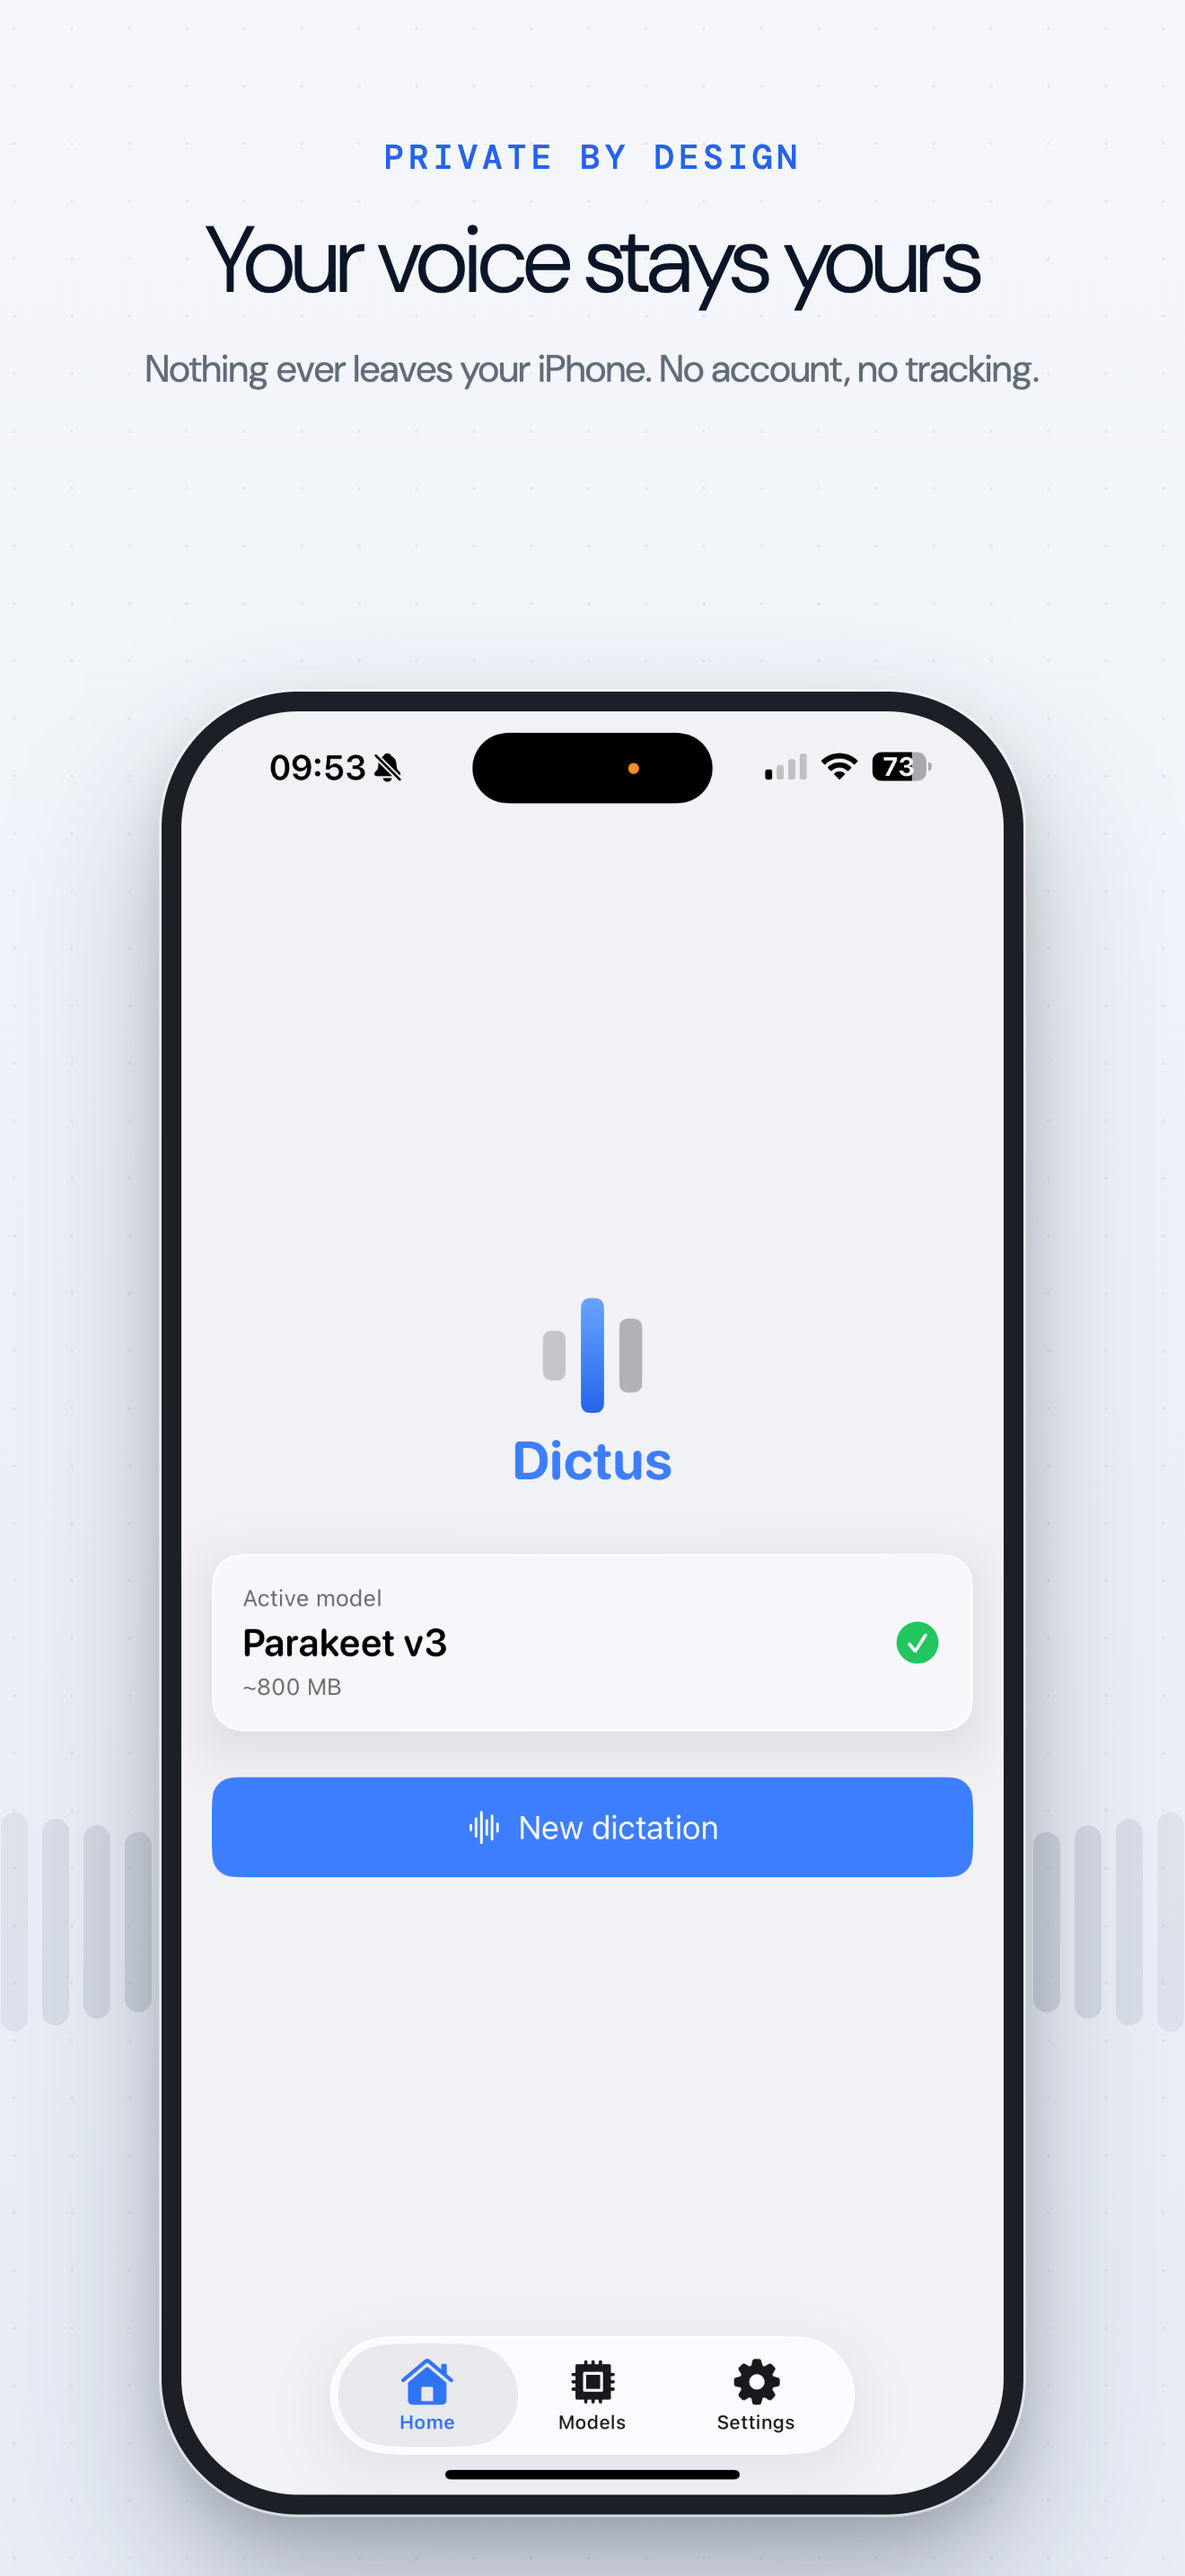
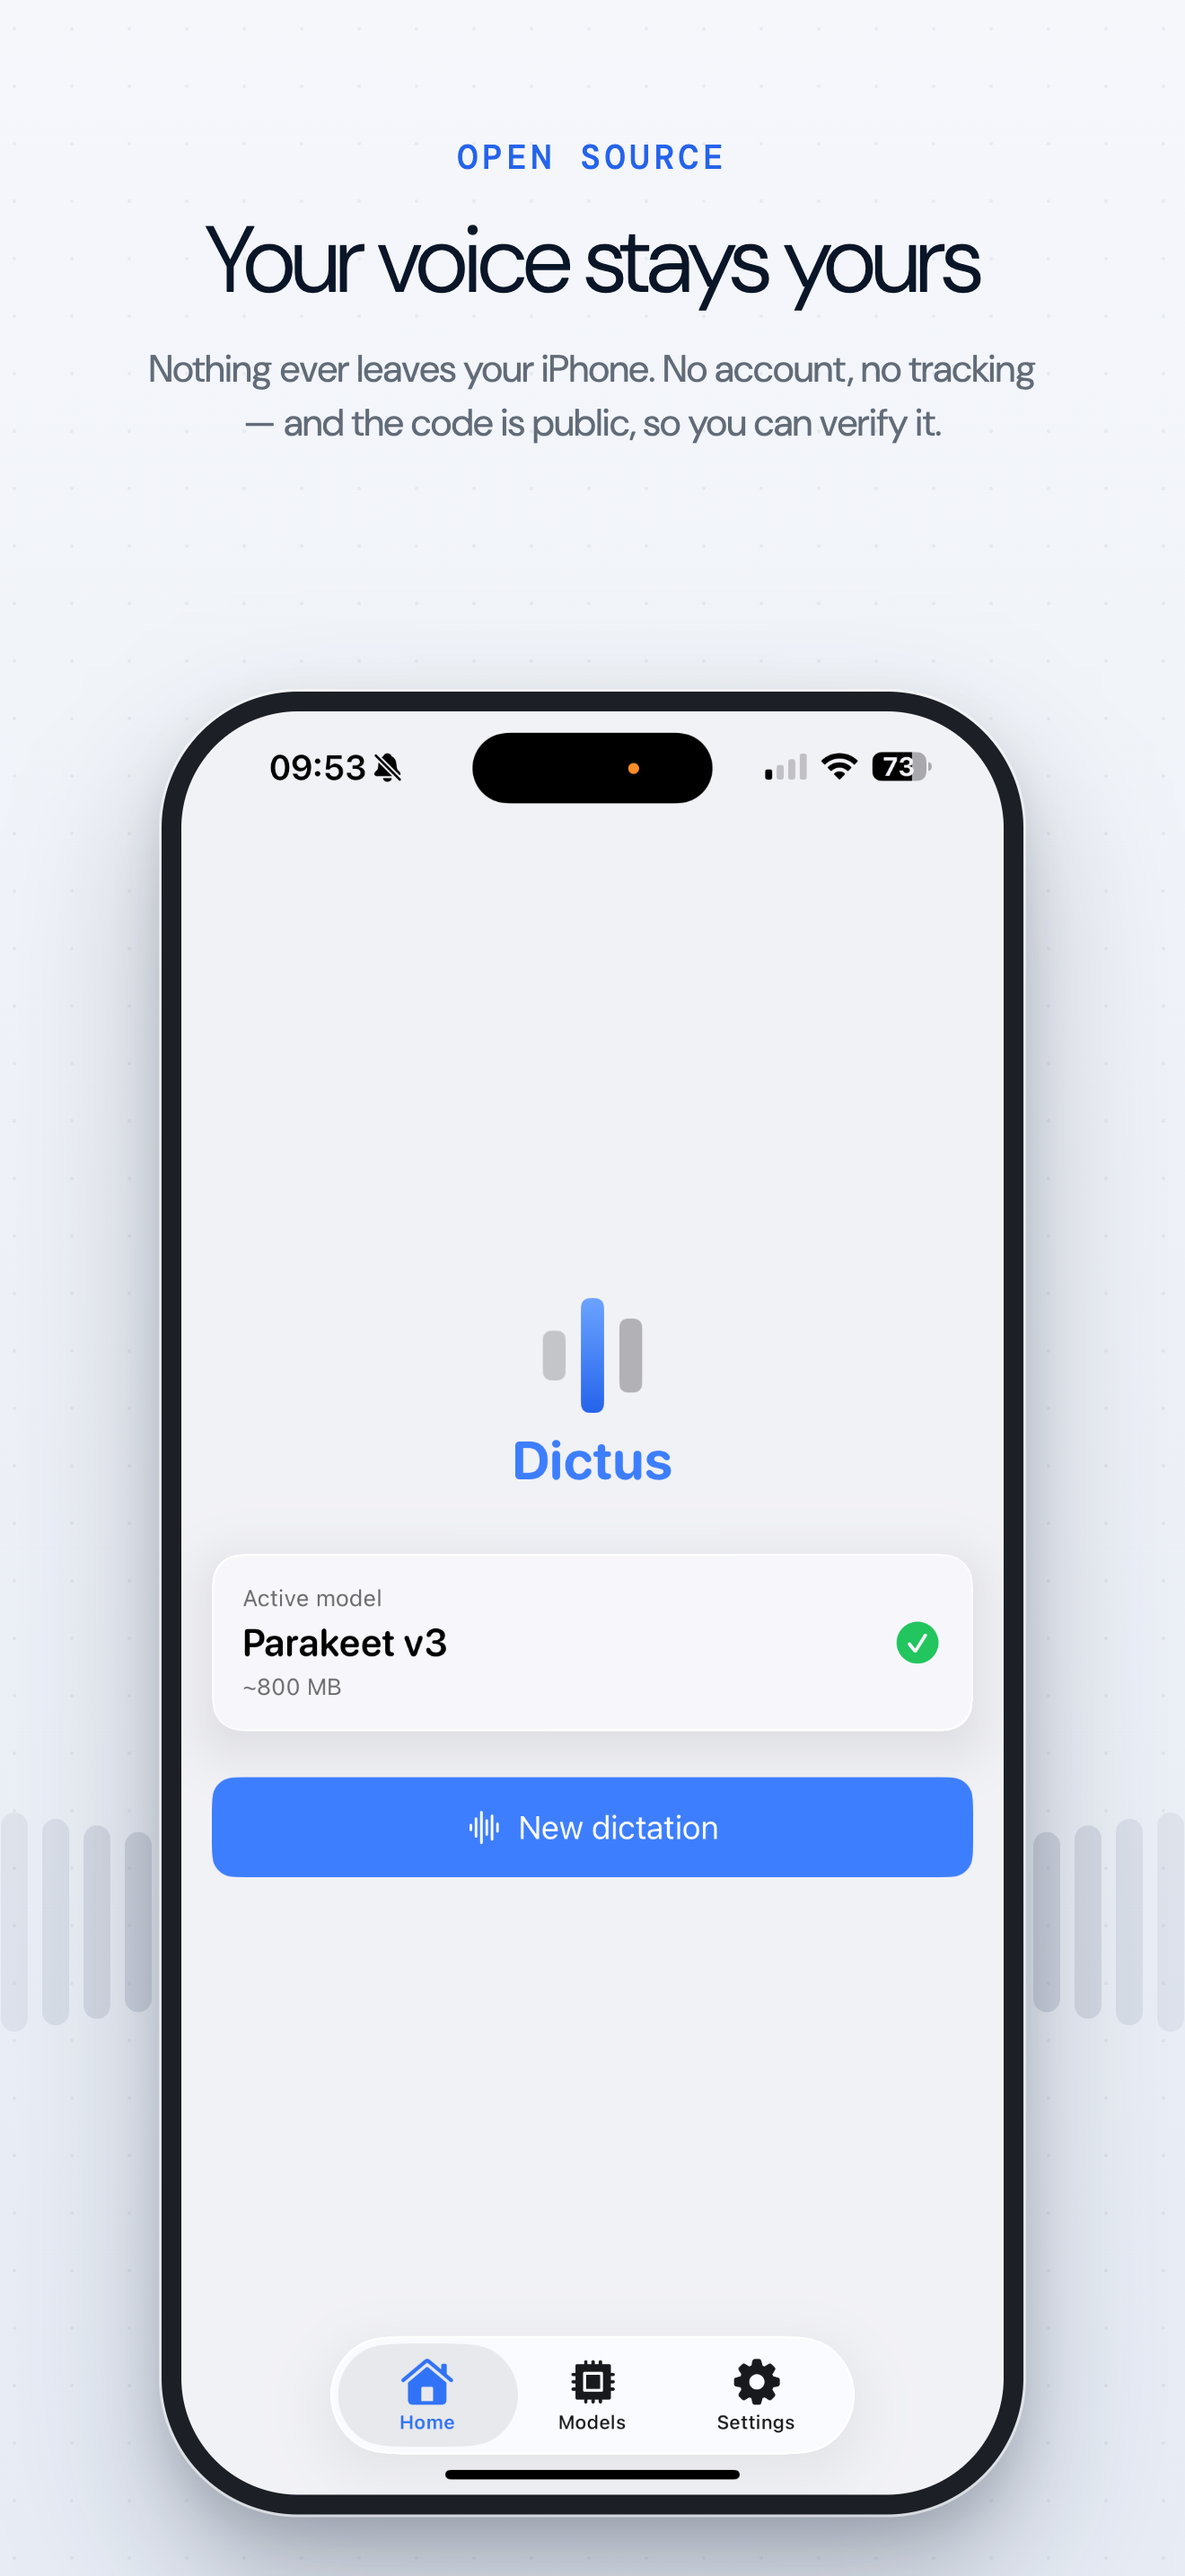
chore: App Store screenshots v7 — open source angle + result pill on slide 4 (#189)
- slide 3: eyebrow PRIVATE BY DESIGN -> OPEN SOURCE, subtext now states
  the code is public and verifiable (the proof behind the privacy claim)
- slide 4: replica of the app's real transcription-result card overlaid
  on the recording state, reading "Fast and accurate dictation." — the
  slide demonstrates its own headline (speak -> waveform -> text)

Changed region(s): [[0.1242, 0.1241, 0.8697, 0.1862]]

diff --git a/assets/appstore/screenshots.html b/assets/appstore/screenshots.html
@@ -122,6 +122,26 @@
     filter: drop-shadow(0 18px 40px rgba(10, 22, 40, 0.28));
   }
 
+  /* ── In-screen transcription result pill (slide 4) ──
+     Replicates the app's real result card: white rounded pill,
+     SF system font, centered inside the phone screen. */
+  .screen-pill {
+    position: absolute;
+    top: 1480px;
+    left: 50%;
+    transform: translateX(-50%);
+    width: 780px;
+    padding: 36px 30px;
+    text-align: center;
+    font-family: -apple-system, BlinkMacSystemFont, "SF Pro Text", "Helvetica Neue", sans-serif;
+    font-size: 31px;
+    font-weight: 400;
+    color: #1d1d1f;
+    background: #FBFBFD;
+    border-radius: 40px;
+    box-shadow: 0 12px 34px rgba(10, 22, 40, 0.10);
+  }
+
   /* ── Preview mode (?preview) ──────────────────── */
   body.preview { padding: 24px; }
   .hint { display: none; }
@@ -168,9 +188,9 @@ const CONFIG = [
   },
   {
     id: "03-private",
-    eyebrow: "Private by design",
+    eyebrow: "Open source",
     headline: "Your voice stays yours",
-    subtext: "Nothing ever leaves your iPhone. No account, no tracking.",
+    subtext: "Nothing ever leaves your iPhone. No account, no tracking — and the code is public, so you can verify it.",
     image: "source/screen3-home.png",
     layout: "device",
   },
@@ -181,6 +201,10 @@ const CONFIG = [
     subtext: "Speak naturally in French, English, German or Spanish.",
     image: "source/screen4-dictation.png",
     layout: "device",
+    /* Replica of the app's real transcription-result card (same pill
+       the app shows once dictation ends) overlaid on the recording
+       state — the slide demonstrates its own headline. */
+    screenPill: "Fast and accurate dictation.",
   },
   {
     id: "05-keyboard",
@@ -271,7 +295,8 @@ CONFIG.forEach((c) => {
       <div class="headline">${c.headline}</div>
       <div class="subtext">${c.subtext}</div>
     </div>
-    ${c.brandIcon ? `<img class="appicon" src="${c.brandIcon}" alt="">` : ""}`;
+    ${c.brandIcon ? `<img class="appicon" src="${c.brandIcon}" alt="">` : ""}
+    ${c.screenPill ? `<div class="screen-pill">${c.screenPill}</div>` : ""}`;
   strip.appendChild(panel);
 });
 
